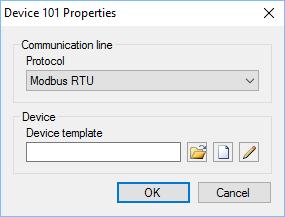
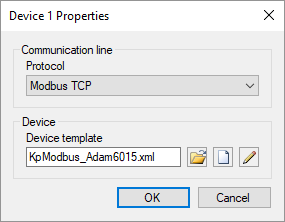
ScadaDoc: update modbus article

diff --git a/ScadaDoc/ScadaDoc/content/latest/en/use-cases/modbus-protocol.html b/ScadaDoc/ScadaDoc/content/latest/en/use-cases/modbus-protocol.html
@@ -83,28 +83,14 @@
 
     <h2>Configuring Communication with Devices</h2>
 
-    <p>Run Communicator (exact its graphical shell). At this time the Server service must be running.</p>
-
-    <p>Right-click on the <em>Communication Lines</em> tree node and choose the <em>Import communication lines and devices</em> item of the context menu (see Figure 4). In the window that appears, tick the created line and device, and then click the <em>Import</em> button (see Figure 5). Communication line and device appear in Communicator.</p>
+    <p>In the project explorer, go to the Communicator settings, expand the node of the just created communication line and double click the <em>Line Parameters</em> node. Configure the communication channel which settings are presented on the <em>Main Parameters</em> page (see Figure 5). In case of Modbus communication, the most common channel types are <em>TCP client</em> and <em>Serial Port</em>.</p>
 
     <p class="sd-article-image">
-        <img src="modbus-protocol-files/modbus_popup_commlines_en.png" alt="Communication lines context menu" /><br />
-        Figure 4. Communication lines context menu
+        <img src="modbus-protocol-files/modbus_line_main_en.png" alt="The main parameters of the communication line" /><br />
+        Figure 5. The main parameters of the communication line
     </p>
 
-    <p class="sd-article-image">
-        <img src="modbus-protocol-files/modbus_import_en.png" alt="Choosing devices for import" /><br />
-        Figure 5. Choosing devices for import
-    </p>
-
-    <p>Click the Line 4 "Test line" tree node to open the <em>Communication Line Parameters</em> page, set up a communication channel, such as a serial port. Tick the <em>Commands enabled</em> checkbox if sending commands to the device is required (see Figure 6).</p>
-
-    <p class="sd-article-image">
-        <img src="modbus-protocol-files/modbus_commline_en.png" alt="Communication line properties" /><br />
-        Figure 6. Communication line properties
-    </p>
-
-    <p>The following table contains typical serial port parameters depending on the protocol type.</p>
+    <p>If communication is performed via a serial port, the typical serial port parameters, depending on the Modbus type, are listed in the table below. In the RTU and ASCII modes, the baud rate specified in the Communicator settings and set on the devices must match. All devices connected to a one communication line must operate using the same Modbus type and with the same baud rate.</p>
 
     <table class="sd-article-table">
         <tr>
@@ -124,109 +110,121 @@
         </tr>
     </table>
 
-    <p>In RTU and ASCII modes a baud rate of all the devices of a communication line has to be the same. Specify this baud rate in the serial port properties. Using different Modbus types within a one line is not allowed.</p>
-
-    <p>Go to the <em>Request Sequence</em> page and select "Test device" row in the table (see Figure 7). If device polling time and period are not specified, the devices are polled cyclically. Commands are sent immediately after a poll is completed.</p>
+    <p>Go to the <em>Request Sequence</em> page and select the "Test device" row (see Figure 6). If device polling time and period are not specified, the devices are polled cyclically. Commands are sent immediately after a poll is completed.</p>
 
     <p class="sd-article-image">
-        <img src="modbus-protocol-files/modbus_request_en.png" alt="Device request sequence" /><br />
-        Figure 7. Device request sequence
+        <img src="modbus-protocol-files/modbus_line_req_en.png" alt="Device request sequence" /><br />
+        Figure 6. Device request sequence
     </p>
 
-    <p>Click the button <img src="../../common-images/props.png" /> to open device properties form (see Figure 8). In the form choose the type of Modbus protocol, which have to be specified in the device manual.</p>
+    <p>Click the <em>Properties</em> button to open the device properties form (see Figure 7). In the form choose the Modbus type, which have to be specified in the device manual. In our case, Modbus TCP.</p>
 
     <p class="sd-article-image">
         <img src="modbus-protocol-files/modbus_device_props_en.png" alt="Device properties" /><br />
-        Figure 8. Device properties
+        Figure 7. Device properties
     </p>
 
-    <p>Press the <img src="../../common-images/open.png" /> button to select an existing device template, or click <img src="../../common-images/blank.png" /> to create a new template. When the create button <img src="../../common-images/blank.png" /> or the edit button <img src="../../common-images/edit.png" /> is clicked, <em>Device Template Editor</em> is shown (see Figure 9). This article uses the existing template KpModbus_Adam6015.xml.</p>
+    <p>Press the <img src="../../common-images/open.png" /> button to select an existing device template, or click <img src="../../common-images/blank.png" /> to create a new template. When the create button <img src="../../common-images/blank.png" /> or the edit button <img src="../../common-images/edit.png" /> is clicked, the <em>Device Template Editor</em> is shown (see Figure 8). This article uses the existing template KpModbus_Adam6015.xml, which was previously copied to the project directory C:\SCADA\Projects\ModbusTest\Instances\Default\ScadaComm\Config\</p>
 
     <p class="sd-article-image">
         <img src="modbus-protocol-files/modbus_template_en.png" alt="Device template editor" /><br />
-        Figure 9. Device template editor
+        Figure 8. Device template editor
     </p>
 
     <p>Device template reflects the structure of Modbus packages. Requested data are combined into groups of elements. Each group has its name, data table, start address and element count. Each element is a tag of a device. Rapid SCADA identifies a tag by its signal number. A command is described by its name, data table and address. A command number identifies the command within Rapid SCADA.</p>
 
-    <p>Names of groups, elements and commands are arbitrary. The available data tables and element addresses are usually described in device manual. Depending on the manufacturer, addressing of elements can be zero-based or one-based, specified as decimal or hexadecimal numbers. By default, addresses start with 1 and represented as decimals. To switch template addressing, click the <img src="../../common-images/settings.png" /> button. Template settings dialog is opened (see Figure 10).</p>
+    <p>Names of groups, elements and commands are arbitrary. The available data tables and element addresses are usually described in device manual. Depending on the manufacturer, addressing of elements can be zero-based or one-based, specified as decimal or hexadecimal numbers. By default, addresses start with 1 and represented as decimals. To switch template addressing, click the <img src="../../common-images/settings.png" /> button. Template settings dialog is opened (see Figure 9).</p>
 
     <p class="sd-article-image">
         <img src="modbus-protocol-files/modbus_template_settings_en.png" alt="Template settings" /><br />
-        Figure 10. Template settings
+        Figure 9. Template settings
     </p>
 
-    <p>To save Communicator settings click the <img src="../../common-images/apply.png" /> button. Now it is recommended to start the Communicator service with the <img src="../../common-images/start.png" /> button and check communication with the device.</p>
+    <p>When editing the device properties (see Figure 7) is completed, click <em>OK</em>. The <em>Command line</em> field of the device parameters contains the template file name KpModbus_Adam6015.xml. Upload the project to the server by the <img src="../../common-images/upload.png" /> button.</p>
 
-    <p>Click Device 101 "Test device" tree node to check the device state and the availability of data (see Figure 11). The data is not available immediately after start, retrieved values are shown when the first polling complete.</p>
+    <p>Double click the device node in the project explorer to check device status and data availability (see Figure 10). Data for this example was provided by <a href="http://www.plcsimulator.org/" target="_blank">Modbus Simulator</a>.</p>
 
     <p class="sd-article-image">
         <img src="modbus-protocol-files/modbus_data_en.png" alt="Device data" /><br />
-        Figure 11. Device data
+        Figure 10. Device data
     </p>
 
-    <p>In case of losing communication with the device, use a communication line log to analyze the problem cause. To open the log, click the <em>Communication Line Stats</em> tree node and go to the <em>Communication Line Log</em> page. Data packages can be decoded by <a href="http://modbus.rapidscada.net/" target="_blank">Online Modbus Parser</a>.</p>
+    <p>In case of losing communication with the device, use a communication line log to realize the problem cause. To open the log, double click the <em>Line Stats</em> tree node and go to the <em>Line Log</em> page. Data packages can be decoded by <a href="http://modbus.rapidscada.net/" target="_blank">Online Modbus Parser</a>.</p>
 
-    <h2>Final Database Configuration</h2>
+    <h2>Creating Channels</h2>
 
-    <p>After communication with the device is established, create input channels and output channels in the configuration database. To do this, open Administrator again.</p>
+    <p>After communication with the device is established, create input channels and output channels in the configuration database. The most fast way to create channels is the wizard called by the <img src="../../common-images/create_cnls.png" /> button. If several devices of the same type are added to the system, configuring can be accelerated by the channel cloning tool.</p>
 
-    <p>The automatic channel creation service helps to save a time. Click <em>Service &gt; Create Channels</em> in the main menu of the application.</p>
-
-    <p>On the form, which is shown in Figure 12, choose "Test line" in the drop down list, then tick the "Test device" row and choose "Test object" in the cell of the <em>Object</em> column. Set the channel numbering parameters to create channels having convenient numbers. Firstly press the <em>Calculate channel numbers</em> button, then press <em>Create</em>.</p>
+    <p>Perform the wizard steps (see Figures 11-13), selecting the communication line, device and object created earlier from the drop-down lists. To check the available channel numbers, use the channel map in step 3.</p>
 
     <p class="sd-article-image">
-        <img src="modbus-protocol-files/modbus_create_cnls_en.png" alt="Creation of channels" /><br />
-        Figure 12. Creation of channels
+        <img src="modbus-protocol-files/modbus_create_cnls1_en.png" alt="Creating channels. Step 1" /><br />
+        Figure 11. Creating channels. Step 1
     </p>
-
-    <p>The channels are created automatically based on the device template that has been created and assigned to the device in the previous section of this article. To view created channels, click the <em>Input channels &gt; Test device</em> tree node and the <em>Output channels &gt; Test device</em> node. It is recommended to manually fill in the <em>Quantity</em> and <em>Unit</em> fields of the input channels and the <em>Command values</em> field of the output channels. However, in the case of the first experiment it is unnecessary.</p>
-
-    <p>Useful to understand that the input channels are bound to the device tags using the <em>Signal</em> field. The output channels are bound to device commands in accordance with the <em>Command number</em> field.</p>
-
-    <p>After editing the configuration database is complete, press the <img src="../../common-images/pass.gif" /> button to pass the changes to Server, and then restart Server and Communicator by <img src="../../common-images/restart_blue.gif" /> and <img src="../../common-images/restart_yellow.gif" /> buttons.</p>
-
-    <p>Open the <em>Device Data</em> page in Communicator and make sure that the input channels are bound to the device tags – the <em>Channel column</em> must contain numbers of the created input channels (see Figure 13).</p>
 
     <p class="sd-article-image">
-        <img src="modbus-protocol-files/modbus_data_with_cnls_en.png" alt="Device data bound to channels" /><br />
-        Figure 13. Device data bound to channels
+        <img src="modbus-protocol-files/modbus_create_cnls2_en.png" alt="Creating channels. Step 2" /><br />
+        Figure 12. Creating channels. Step 2
     </p>
-
-    <p>As a result of described actions, data should be collected from the device and stored in the archive. It remains to customize user interface for an operator.</p>
-
-    <h2>Customizing User Interface for Operator</h2>
-
-    <p>Consider creating a table view for the Webstation application. To do this, the Table Editor application is needed. If displaying data in a graphical view is required, use Scheme Editor instead of Table editor.</p>
-
-    <p>Open Table Editor and fill in the table view as shown in Figure 14. Add a channel in the table (from the left side of the window to the right) by clicking the <img src="../../common-images/plus.png" /> button, double-clicking the channel row or by pressing Enter.</p>
-
-    <p>Save created table view in the TestTable.tbl file in the C:\SCADA\Interface\Test folder. Please note that folder names and file names of views must contain only Latin characters.</p>
 
     <p class="sd-article-image">
-        <img src="modbus-protocol-files/modbus_table_editor_en.png" alt="Table editor" /><br />
-        Figure 14. Table editor
+        <img src="modbus-protocol-files/modbus_create_cnls3_en.png" alt="Creating channels. Step 3" /><br />
+        Figure 13. Creating channels. Step 3
     </p>
 
-    <p>To display a table view in Webstation, define it in the <em>Interface</em> table of the configuration database by the Administrator application as shown in Figure 15.</p>
+
+    <p>Clicking the <em>Create</em> button creates channels. The channels are created automatically based on the device template that has been created and assigned to the device in the previous section of this article. To view created channels, open the <em>Input channels &gt; Test device</em> table and the <em>Output channels &gt; Test device</em> table. It is recommended to manually fill in the <em>Quantity</em> and <em>Unit</em> fields of the input channels and the <em>Command values</em> field of the output channels. However, in the case of the first experiment it is unnecessary. Useful to understand that the input channels are bound to the device tags using the <em>Signal</em> field. The output channels are bound to device commands in accordance with the <em>Command number</em> field.</p>
+
+    <p>After editing the configuration database is complete, upload the project to the server by the <img src="../../common-images/upload.png" /> button. Open the device data page in the Communicator settings and make sure that the input channels are bound to the device tags. The <em>Channel</em> column must contain numbers of the created input channels (see Figure 14).</p>
 
     <p class="sd-article-image">
-        <img src="modbus-protocol-files/modbus_table_itf_en.png" alt="Adding a view in the Interface table" /><br />
-        Figure 15. Adding a view in the Interface table
+        <img src="modbus-protocol-files/modbus_data_bound_en.png" alt="Device data bound to channels" /><br />
+        Figure 14. Device data bound to channels
     </p>
 
-    <p>To apply the changes, send the database to Server by the <img src="../../common-images/pass.gif" /> button and restart the Server service by the <img src="../../common-images/restart_blue.gif" /> button.</p>
+    <p>As a result of above actions, data should be collected from the device and stored in the archive. It remains to customize user interface for an operator.</p>
 
-    <p>Now start your browser and enter the address <a href="http://localhost/scada/" target="_blank">http://localhost/scada/</a>. On the login form use <em>admin / 12345</em> (see Figure 16). If the configuration carried out correctly, after logging in, you will see a table with the data obtained from the device, similar to Figure 17.</p>
+    <h2>Customizing Operator User Interface</h2>
+
+    <p>Consider creating a table view for the Webstation application. If it is necessary to display data on a scheme, the steps to create a view are similar.</p>
+
+    <p>Right click the <em>Interface</em> node of the project explorer. First, select <em>New Folder</em> in the context menu and create the ModbusTest folder. Then in the context menu of the created folder, select <em>New File</em> (see Figure 15). In the opened window, set the table view type, specify the filename ModbusDevice.tbl and click the <em>OK</em> button (see Figure 16).</p>
+
+
+    <p class="sd-article-image">
+        <img src="modbus-protocol-files/modbus_interface_menu_en.png" alt="Menu for creating a view" /><br />
+        Figure 15. Menu for creating a view
+    </p>
+
+    <p class="sd-article-image">
+        <img src="modbus-protocol-files/modbus_interface_file_en.png" alt="The view creation dialog" /><br />
+        Figure 16. The view creation dialog
+    </p>
+
+    <p>The created view file appears in the project explorer. Double clicking the file opens <a href="../software-overview/applications/table-editor-application.html">Table Editor</a>. Enter a title and fill in the view items, as shown in Figure 17. Save the changes and close the editor.</p>
+
+    <p class="sd-article-image">
+        <img src="modbus-protocol-files/modbus_table_editor_en.png" alt="Editing a view" /><br />
+        Figure 17. Editing a view
+    </p>
+
+    <p>After the view file is created, specify the parent directory and the file in the <em>Interface</em> table of the configuration database (see Figure 18).</p>
+
+    <p class="sd-article-image">
+        <img src="modbus-protocol-files/modbus_interface_table_en.png" alt="Adding a view in the Interface table" /><br />
+        Figure 18. Adding a view in the Interface table
+    </p>
+
+    <p>Upload the project to the server by the <img src="../../common-images/upload.png" /> button. Now start your browser and enter the address <a href="http://localhost/scada/" target="_blank">http://localhost/scada/</a>. On the login form use <em>admin / 12345</em> (see Figure 19). If the configuration carried out correctly, after logging in, you will see a table with the data obtained from the device, similar to Figure 20.</p>
 
     <p class="sd-article-image">
         <img src="modbus-protocol-files/modbus_web1_en.png" alt="Login form" /><br />
-        Figure 16. Login form
+        Figure 19. Login form
     </p>
 
     <p class="sd-article-image">
         <img src="modbus-protocol-files/modbus_web2_en.png" alt="The Webstation application" /><br />
-        Figure 17. The Webstation application
+        Figure 20. The Webstation application
     </p>
 
     <h2>Modbus Tags Conversion</h2>
